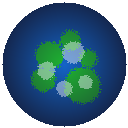
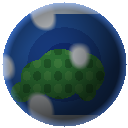
fix(hud): align right stats with left HUD y=4; new PIL Earth sprite with clean continents

diff --git a/tools/gen_earth.py b/tools/gen_earth.py
@@ -1,60 +1,76 @@
 #!/usr/bin/env python3
-"""Generate a 128x128 pixel-art Earth sprite (blue sphere + green continents + white clouds)."""
-import math, random, os
-from PIL import Image, ImageDraw
+"""Generate a 128x128 pixel-art Earth sprite — clean style."""
+from PIL import Image
+import math, random
+random.seed(7)
+S = 128
+img = Image.new("RGBA", (S, S), (0,0,0,0))
+R = S // 2 - 2
+cx, cy = S // 2, S // 2
 
-random.seed(42)
-SIZE = 128
-R = SIZE // 2 - 2  # sphere radius
-CX, CY = SIZE // 2, SIZE // 2
+# Continent mask via clustered blobs
+land_mask = [[False]*S for _ in range(S)]
+seeds = []
+for _ in range(5):
+    a = random.uniform(0, 2*math.pi)
+    r = random.uniform(0.1, 0.55) * R
+    seeds.append((cx+math.cos(a)*r, cy+math.sin(a)*r, random.uniform(16,30)))
+for _ in range(10):
+    px, py = random.choice(seeds)[:2]
+    ox = px + random.uniform(-18, 18)
+    oy = py + random.uniform(-18, 18)
+    seeds.append((ox, oy, random.uniform(6, 14)))
+for y in range(S):
+    for x in range(S):
+        for sx, sy, sr in seeds:
+            if (x-sx)**2 + (y-sy)**2 < sr*sr:
+                land_mask[y][x] = True
+                break
 
-img = Image.new("RGBA", (SIZE, SIZE), (0, 0, 0, 0))
-draw = ImageDraw.Draw(img)
+for y in range(S):
+    for x in range(S):
+        dx, dy = x - cx, y - cy
+        d = math.sqrt(dx*dx + dy*dy)
+        if d > R:
+            continue
+        nd = d / R
+        light = max(0.45, min(1.05, 0.75 + (-dx*0.7 - dy*0.7) / (R * 2)))
+        shade = max(0.35, 1.0 - nd * 0.5) * light
+        polar = abs(dy) / R
+        if polar > 0.82:
+            c = (210, 225, 240)
+        elif land_mask[y][x]:
+            h = math.sin(x*0.3)*math.cos(y*0.25)*0.5+0.5
+            if polar > 0.65:
+                c = (100, 140, 90)
+            elif h < 0.3:
+                c = (40, 110, 50)
+            elif h < 0.7:
+                c = (55, 140, 65)
+            else:
+                c = (75, 155, 75)
+        else:
+            if nd < 0.35:
+                c = (20, 55, 140)
+            elif nd < 0.6:
+                c = (30, 75, 160)
+            else:
+                c = (40, 95, 180)
+        # Clouds — smooth large patches
+        cn = math.sin(x*0.09+1)*math.cos(y*0.07+2) + math.sin(x*0.05-y*0.06)*0.5
+        if cn > 0.7:
+            mix = min(1.0, (cn - 0.7) * 3)
+            c = (int(c[0]+(235-c[0])*mix), int(c[1]+(240-c[1])*mix), int(c[2]+(245-c[2])*mix))
+        r = min(255, int(c[0]*shade))
+        g = min(255, int(c[1]*shade))
+        b = min(255, int(c[2]*shade))
+        # Atmosphere edge glow
+        if nd > 0.88:
+            glow = (nd - 0.88) / 0.12
+            r = min(255, int(r + glow*40))
+            g = min(255, int(g + glow*60))
+            b = min(255, int(b + glow*100))
+        img.putpixel((x, y), (r, g, b, 255))
 
-# --- base ocean sphere ---
-for y in range(SIZE):
-    for x in range(SIZE):
-        dx, dy = x - CX, y - CY
-        d = math.sqrt(dx * dx + dy * dy)
-        if d <= R:
-            shade = max(0.4, 1.0 - d / R * 0.6)
-            b = int(200 * shade)
-            g = int(100 * shade)
-            img.putpixel((x, y), (20, g, b, 255))
-
-# --- continents (random blobs) ---
-continents = [(0.3, 0.35, 18), (-0.25, -0.15, 14), (0.1, -0.4, 10),
-              (-0.35, 0.25, 12), (0.4, -0.1, 9)]
-for cx_f, cy_f, cr in continents:
-    ccx, ccy = CX + int(cx_f * R), CY + int(cy_f * R)
-    for y in range(max(0, ccy - cr - 4), min(SIZE, ccy + cr + 4)):
-        for x in range(max(0, ccx - cr - 4), min(SIZE, ccx + cr + 4)):
-            dx, dy = x - CX, y - CY
-            if math.sqrt(dx * dx + dy * dy) > R:
-                continue
-            dd = math.sqrt((x - ccx) ** 2 + (y - ccy) ** 2)
-            jitter = random.uniform(-2, 2)
-            if dd + jitter < cr:
-                shade = max(0.5, 1.0 - math.sqrt(dx * dx + dy * dy) / R * 0.5)
-                img.putpixel((x, y), (30, int(180 * shade), 50, 255))
-
-# --- clouds (white patches) ---
-clouds = [(0.15, -0.2, 11), (-0.3, 0.1, 9), (0.0, 0.4, 8), (0.35, 0.3, 7)]
-for cx_f, cy_f, cr in clouds:
-    ccx, ccy = CX + int(cx_f * R), CY + int(cy_f * R)
-    for y in range(max(0, ccy - cr - 2), min(SIZE, ccy + cr + 2)):
-        for x in range(max(0, ccx - cr - 2), min(SIZE, ccx + cr + 2)):
-            dx, dy = x - CX, y - CY
-            if math.sqrt(dx * dx + dy * dy) > R:
-                continue
-            dd = math.sqrt((x - ccx) ** 2 + (y - ccy) ** 2)
-            if dd + random.uniform(-1, 1) < cr:
-                prev = img.getpixel((x, y))
-                a = 0.45
-                img.putpixel((x, y), (int(prev[0] * (1 - a) + 240 * a),
-                                       int(prev[1] * (1 - a) + 245 * a),
-                                       int(prev[2] * (1 - a) + 250 * a), 255))
-
-out = os.path.join(os.path.dirname(__file__), "..", "assets", "earth", "earth_generic.png")
-img.save(out)
-print(f"Saved {out} ({SIZE}x{SIZE})")
+img.save("assets/earth/earth_generic.png")
+print("OK 128x128")
